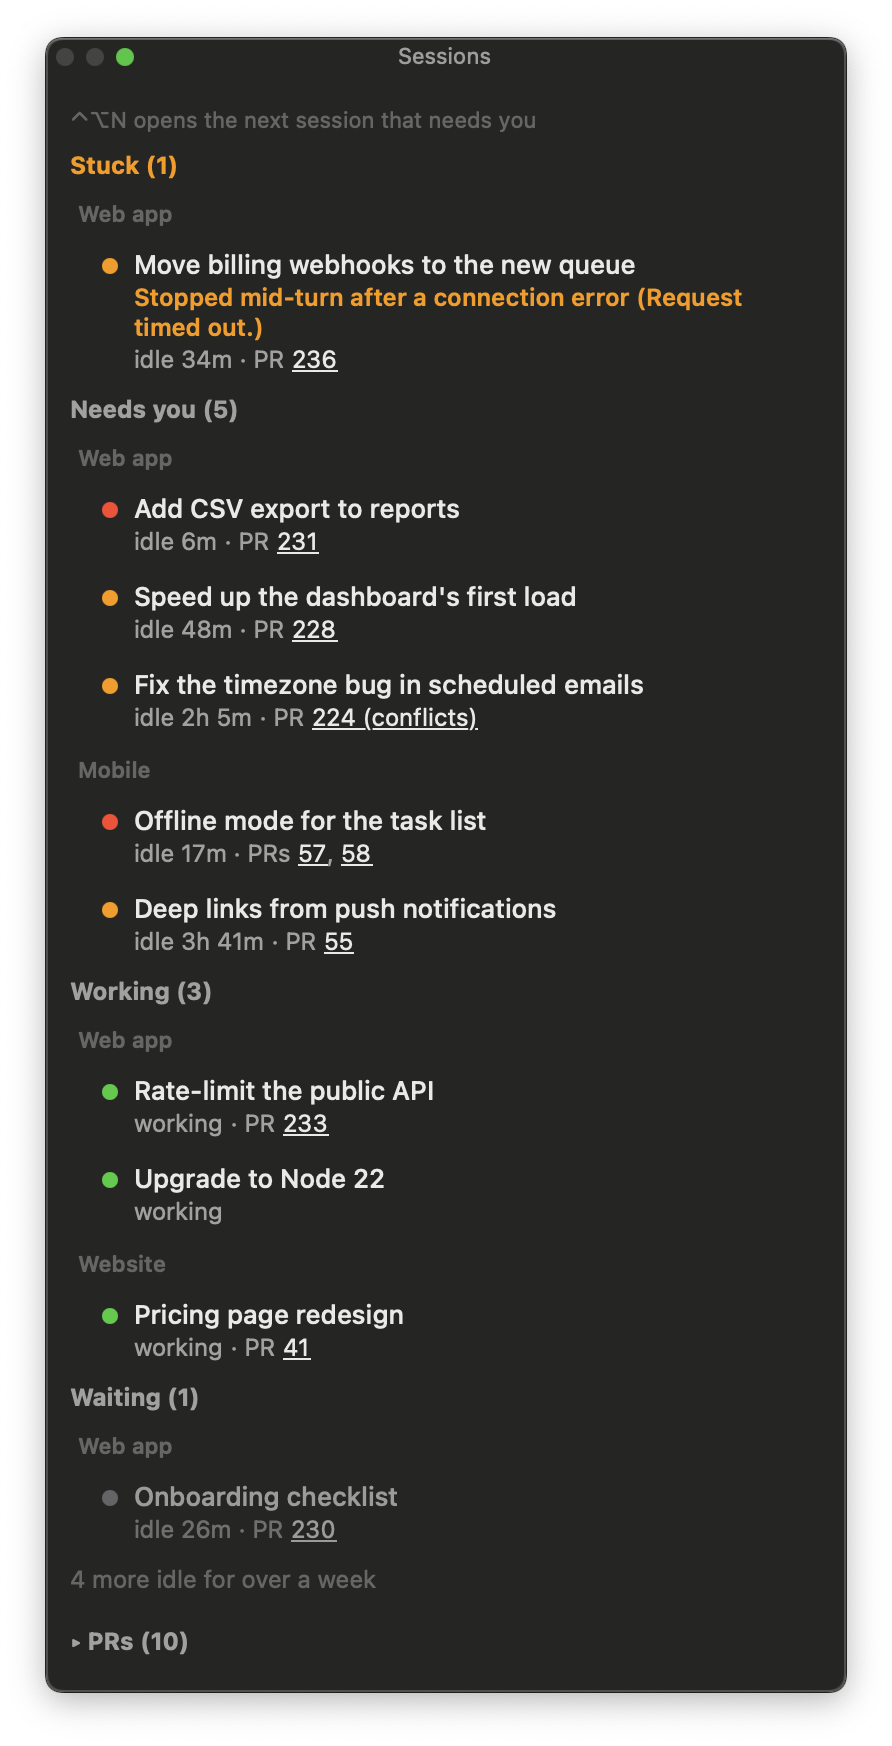
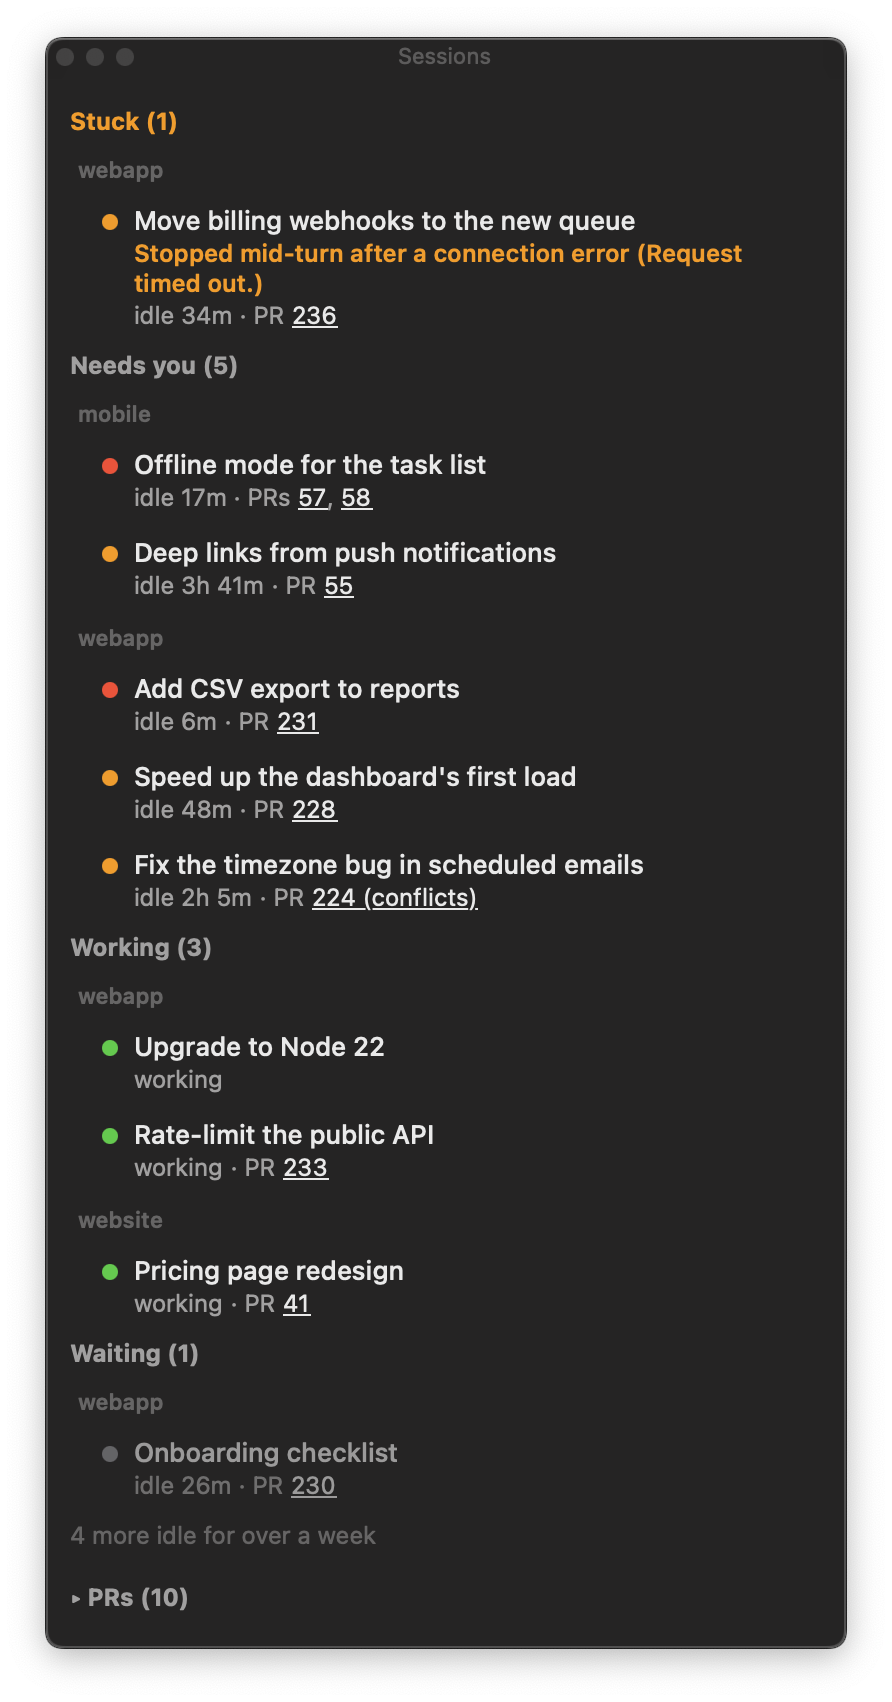
Redo the README screenshots for the new names and add one of the settings window
The old ones showed the removed shortcut hint, a shaded row and the old
Web app / Mobile / Website labels. All are made from sample data.

diff --git a/README.md b/README.md
@@ -69,6 +69,8 @@ The window shows sessions from every folder, grouped by the folder name of their
 
 The PR list covers every repo a session has an open PR on. To also see your own open PRs in repos where no session is working, right-click the window, choose **Settings…** and paste each repo's full GitHub address, like `https://github.com/owner/name`. The window checks with `gh` that you can see the repo, and the list is saved in `~/Library/Application Support/blackroija/settings.json`. Your GitHub login decides which PRs are "yours".
 
+<img src="docs/settings.png" alt="The settings window: a field for a GitHub address and the list of watched repos, each with a Remove button" width="520">
+
 ## Checking it from the terminal
 
 `--print` prints the same sections and the PR groups, then exits:
